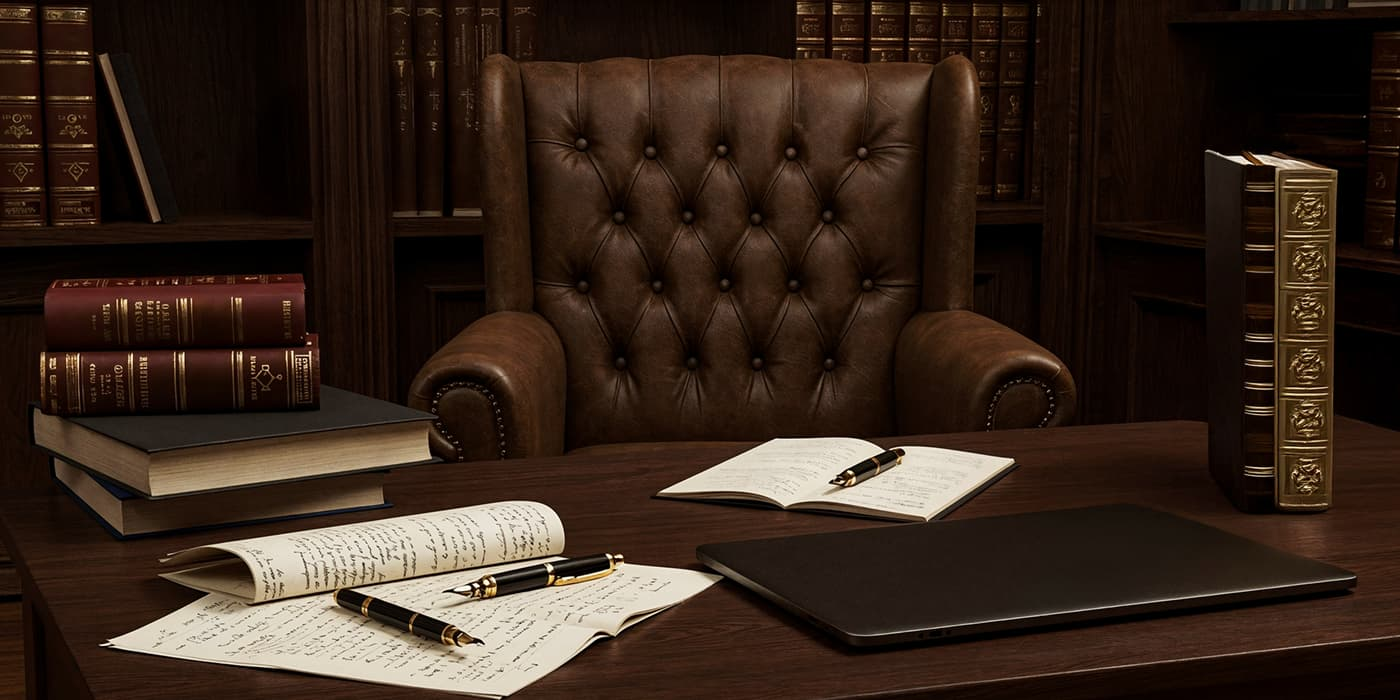
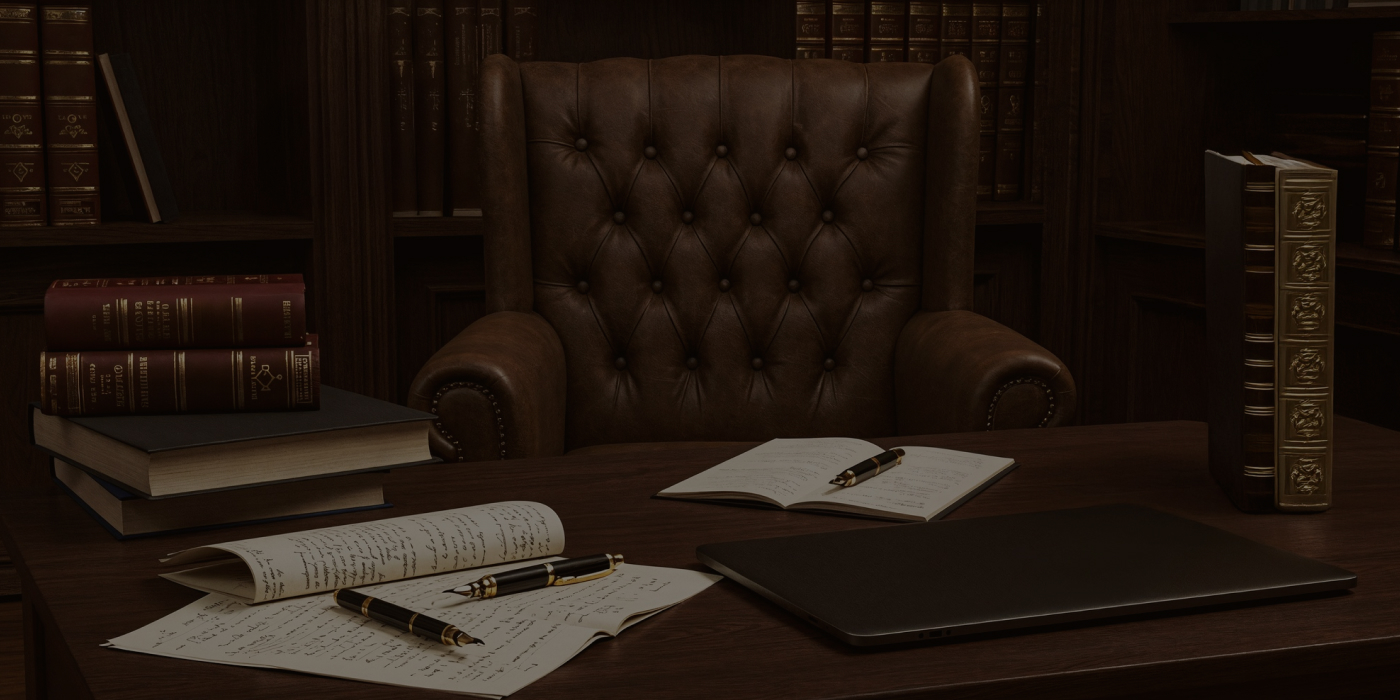
Add new images and update styles for franchise section
- Added new appointment images: abon-01.jpg, abon-02.jpg, abon-03.jpg, abon-04.jpg, abon-05.jpg, abon-06.jpg
- Added franchise background image: franchise-bg.jpg
- Added lemon image: lemon.png
- Updated main background image: main-bg.jpg
- Added referral image: referal-img.jpg
- Updated index.html to change franchise description class and background image
- Modified _elements.sass to set button width to 100%
- Enhanced style.sass for franchise section with new styles for description and button, adjusted padding and margins for responsiveness

diff --git a/css/style.css b/css/style.css
@@ -1,1 +1,1 @@
-html{font-family:sans-serif;-ms-text-size-adjust:100%;-webkit-text-size-adjust:100%}body{margin:0}article,aside,details,figcaption,figure,footer,header,hgroup,main,nav,section,summary{display:block}audio,canvas,progress,video{display:inline-block;vertical-align:baseline}audio:not([controls]){display:none;height:0}[hidden],template{display:none}a{background:rgba(0,0,0,0)}a:active,a:hover{outline:0}abbr[title]{border-bottom:1px dotted}b,strong{font-weight:bold}dfn{font-style:italic}h1{font-size:2em;margin:.67em 0}mark{background:#ff0;color:#000}small{font-size:80%}sub,sup{font-size:75%;line-height:0;position:relative;vertical-align:baseline}sup{top:-0.5em}sub{bottom:-0.25em}img{border:0}svg:not(:root){overflow:hidden}figure{margin:1em 40px}hr{-webkit-box-sizing:content-box;box-sizing:content-box;height:0}pre{overflow:auto}code,kbd,pre,samp{font-family:monospace,monospace;font-size:1em}button,input,optgroup,select,textarea{color:inherit;font:inherit;margin:0}button{overflow:visible}button,select{text-transform:none}button,html input[type=button],input[type=reset],input[type=submit]{-webkit-appearance:button;cursor:pointer}button[disabled],html input[disabled]{cursor:default}button::-moz-focus-inner,input::-moz-focus-inner{border:0;padding:0}input{line-height:normal}input[type=checkbox],input[type=radio]{-webkit-box-sizing:border-box;box-sizing:border-box;padding:0}input[type=number]::-webkit-inner-spin-button,input[type=number]::-webkit-outer-spin-button{height:auto}input[type=search]{-webkit-appearance:textfield;-webkit-box-sizing:content-box;box-sizing:content-box}input[type=search]::-webkit-search-cancel-button,input[type=search]::-webkit-search-decoration{-webkit-appearance:none}legend{border:0;padding:0}textarea{overflow:auto}optgroup{font-weight:bold}table{border-collapse:collapse;border-spacing:0}td,th{padding:0}*{padding:0;margin:0;-webkit-box-sizing:border-box;box-sizing:border-box;border:none;outline:none}:root{--prime: #FF3700;--main: #3D1000;--white: #fff;--black: #000;--dark: #111111;--green: #25A163;--red: #E61717;--bg: #111111;--fz: 1.25rem;--cont: 1320px;--cont-pad: 20px;--padd: 20px}html{scroll-behavior:smooth}body,html{font-family:"Raleway",sans-serif;font-weight:400;font-style:normal;font-optical-sizing:auto;background-color:var(--bg);color:var(--white)}@media screen and (max-width: 1100px){body.tab_active,html.tab_active{overflow:hidden}}body{min-height:100vh;position:relative;z-index:1}body.active{overflow:hidden}.container{max-width:var(--cont);width:calc(100% - var(--cont-pad)*2);margin:0 auto}img{display:block;max-width:100%}h1,h2{font-family:"Philosopher",sans;font-weight:700;margin:0 0 20px}h3,.h3{font-weight:600;font-size:28px;line-height:115%;margin:0 0 20px}h1,.h1{font-weight:700;font-size:60px;line-height:113%;text-transform:uppercase}h2,.h2{font-weight:700;font-size:40px;line-height:100%;color:var(--prime);text-transform:uppercase;margin:0 0 45px}a,button,p,ul,ol{font-family:inherit;font-weight:600;font-size:var(--fz);line-height:130%;letter-spacing:calc(var(--fz)*-0.02);color:var(--white)}.ic{--ic-width: 16px;min-width:var(--ic-width);width:var(--ic-width);height:var(--ic-width);fill:var(--white);display:inline-block}p{font-weight:300;font-size:14px;line-height:20px}p.--lg{font-size:20px;line-height:26px}p:last-child{margin-bottom:0}a,button{text-decoration:none;-webkit-transition:all ease .3s;transition:all ease .3s;background-color:rgba(0,0,0,0)}a:active,button:active{opacity:1;-webkit-transform:scale(0.98);-ms-transform:scale(0.98);transform:scale(0.98)}.btn{font-weight:700;font-size:14px;line-height:16px;vertical-align:middle;text-align:left;color:var(--black);gap:14px;min-width:230px;width:-webkit-fit-content;width:-moz-fit-content;width:fit-content;padding:10px;background-color:var(--white)}.btn .ic{fill:var(--black);-webkit-transition:all .3s ease;transition:all .3s ease}.btn .--arrow{margin-left:auto}.btn:active,.btn:hover{background-color:var(--prime);color:var(--white)}.btn:active .ic,.btn:hover .ic{fill:var(--white)}.btn:active .--arrow,.btn:hover .--arrow{-webkit-transform:scaleX(-1);-ms-transform:scaleX(-1);transform:scaleX(-1)}.btn:disabled{background-color:#e7e7f0;cursor:progress}.w-full{width:100% !important}ul{list-style:none}[class^=fx-],[class*=" fx-"],.btn,body,.fx,.wrapper{display:-webkit-box;display:-ms-flexbox;display:flex}.fx-col,body{-webkit-box-orient:vertical;-webkit-box-direction:normal;-ms-flex-direction:column;flex-direction:column}.fx-ac,.btn{-webkit-box-align:center;-ms-flex-align:center;align-items:center}.fx-as,.wrapper{-webkit-box-align:start;-ms-flex-align:start;align-items:flex-start}.fx-jc{-webkit-box-pack:center;-ms-flex-pack:center;justify-content:center}.fx-je{-webkit-box-pack:end;-ms-flex-pack:end;justify-content:flex-end}.fx-w{-ms-flex-wrap:wrap;flex-wrap:wrap}.fx-jb{-webkit-box-pack:justify;-ms-flex-pack:justify;justify-content:space-between}.fx-ae{-webkit-box-align:end;-ms-flex-align:end;align-items:end}.wrapper{--gap: 63px;--first: 242px;gap:var(--gap)}.wrapper__img{width:100%;-o-object-fit:cover;object-fit:cover}.wrapper>*:first-child{width:var(--first)}.wrapper>*:last-child{width:calc(100% - (var(--first) + var(--gap)))}label{display:block;line-height:100%}input{font-weight:500;--fz: 1.25rem;font-size:var(--fz);line-height:110%;letter-spacing:calc(var(--fz)*-0.02);border:2px solid #80d4ff;height:64px;border-radius:12px;width:100%;padding:0 14px;background-color:#f4f4f5}input:focus{border-color:var(--black)}input::-webkit-input-placeholder{color:#9e9eab}input::-moz-placeholder{color:#9e9eab}input:-ms-input-placeholder{color:#9e9eab}input::-ms-input-placeholder{color:#9e9eab}input::placeholder{color:#9e9eab}@media screen and (max-width: 1300px){.tb-hide{display:none}}@media screen and (min-width: 1300px){.tb-show{display:none}}@media screen and (max-width: 720px){.mob-hide{display:none}}@media screen and (min-width: 720px){.mob-show{display:none}}section{overflow:hidden;padding:50px 0}@media screen and (max-width: 1199px){section{padding:40px 0}}@media screen and (max-width: 992px){section{padding:30px 0}}@media screen and (max-width: 1439px){:root{--fz: 1rem;--cont: 1260px;--padd: 10px}}@media screen and (max-width: 1199px){h1,.h1{font-size:50px}h2,.h2{font-size:30px;margin-bottom:35px}h3,.h3{font-size:22px}.wrapper{--gap: 53px}}@media screen and (max-width: 991px){:root{--padd: 0px}h1,.h1{font-size:40px}h2,.h2{font-size:30px;margin-bottom:25px}h3,.h3{font-size:18px}.wrapper{--first: 200px;--gap: 40px}}@media screen and (max-width: 720px){.wrapper{display:block}.wrapper>*{width:100% !important}.wrapper__img{display:none}p{font-size:12px;line-height:15px}h1,.h1{font-size:25px}h2,.h2{margin-bottom:20px;font-size:24px}h3,.h3{font-size:16px}}.slick-list{position:relative;display:-webkit-box;display:-ms-flexbox;display:flex;margin:0;padding:0}.slick-list:focus{outline:none}.slick-list.dragging{cursor:pointer;cursor:hand}.slick-slider{position:relative;overflow:hidden;display:block;-webkit-box-sizing:border-box;box-sizing:border-box;-webkit-touch-callout:none;-webkit-user-select:none;-moz-user-select:none;-ms-user-select:none;user-select:none;-ms-touch-action:pan-y;touch-action:pan-y;-webkit-tap-highlight-color:rgba(0,0,0,0);left:0;width:100%;position:relative}.slick-slider .slick-track,.slick-slider .slick-list{-webkit-transform:translate3d(0, 0, 0);-ms-transform:translate3d(0, 0, 0);transform:translate3d(0, 0, 0)}.slick-track{position:relative;left:0;top:0;display:-webkit-box;display:-ms-flexbox;display:flex;margin-left:auto;margin-right:auto}.slick-track:before,.slick-track:after{content:"";display:table}.slick-track:after{clear:both}.slick-loading .slick-track{visibility:hidden}.slick-slide{float:left;height:100%;margin:0;min-height:1px;-webkit-transition:all ease .3s;transition:all ease .3s;margin:0 8px}.slick-slide img{display:block}.slick-slide.slick-loading img{display:none}.slick-slide.dragging img{pointer-events:none}.slick-loading .slick-slide{visibility:hidden}.slick-vertical .slick-slide{height:auto}.slick-arrow.slick-hidden{display:none}.slick-arrow{color:rgba(0,0,0,0)}.header{top:0;left:0;width:100%;z-index:99999}.header .btn__menu{display:none;position:relative;z-index:10;opacity:1 !important}.header .nav__link{padding:15px;font-family:Raleway;font-weight:400;font-style:Regular;font-size:14px;leading-trim:CAP_HEIGHT;line-height:100%}.header .nav__link:hover{opacity:1;color:var(--prime)}@media(min-width: 1200px){.header .nav .header-contacts{display:none}}.header-contacts{gap:5px}.header-contacts__link{font-family:"Philosopher",serif;gap:10px;font-weight:700;font-size:16px;line-height:100%}@media(max-width: 1199px){.header .btn__menu{display:block;width:30px;height:40px}.header .btn__menu span{position:relative;display:block;width:100%;margin:0;-webkit-transition:.3s all ease;transition:.3s all ease;height:3px;background-color:var(--white)}.header .btn__menu span::after,.header .btn__menu span::before{content:"";position:absolute;right:0;height:3px;background-color:var(--white);-webkit-transition:inherit;transition:inherit;top:-8px;width:100%}.header .btn__menu span::after{top:8px}.header .btn__menu.active span{background-color:rgba(var(--white), 0)}.header .btn__menu.active span::before,.header .btn__menu.active span::after{top:50%;-webkit-transform:rotate(-45deg);-ms-transform:rotate(-45deg);transform:rotate(-45deg)}.header .btn__menu.active span::after{-webkit-transform:rotate(45deg);-ms-transform:rotate(45deg);transform:rotate(45deg)}.header .nav{position:absolute;z-index:1111;-webkit-transition:all .4s ease;transition:all .4s ease;width:calc(100% - 62px);max-width:320px;top:0;left:0;text-align:center;background-color:rgba(17,17,17,.95);opacity:0;overflow:hidden;height:100svh;visibility:hidden;-webkit-transform:translateX(-100%);-ms-transform:translateX(-100%);transform:translateX(-100%);-webkit-box-orient:vertical;-webkit-box-direction:normal;-ms-flex-direction:column;flex-direction:column;padding:50px 20px}.header .nav>*{opacity:0;width:100%;-webkit-transition:all ease .3s;transition:all ease .3s;-webkit-transform:translateY(100%);-ms-transform:translateY(100%);transform:translateY(100%)}.header .nav__link{display:block;font-size:16px;padding:10px 0;text-align:left;line-height:100%}.header .nav .header-contacts{margin:auto 0 0}.header .nav.active{opacity:1;visibility:visible;-webkit-transform:translateX(0);-ms-transform:translateX(0);transform:translateX(0)}.header .nav.active>*{opacity:1;-webkit-transform:translateY(0px);-ms-transform:translateY(0px);transform:translateY(0px)}.header .nav.active>*:nth-child(1){-webkit-transition-delay:.1s;transition-delay:.1s}.header .nav.active>*:nth-child(2){-webkit-transition-delay:.2s;transition-delay:.2s}.header .nav.active>*:nth-child(3){-webkit-transition-delay:.3s;transition-delay:.3s}.header .nav.active>*:nth-child(4){-webkit-transition-delay:.4s;transition-delay:.4s}.header .nav.active>*:nth-child(5){-webkit-transition-delay:.5s;transition-delay:.5s}.header .nav.active>*:nth-child(6){-webkit-transition-delay:.6s;transition-delay:.6s}.header-contacts{margin:0 34px 0 auto}}@media(max-width: 720px){.header{padding:0 !important}.header-contacts__link{font-size:14px}}@media(max-width: 350px){.header-contacts{margin-right:22px}.header-contacts__link{font-size:12px}.header-contacts__link .ic{--ic-width: 14px}}.logo{display:block;position:relative;z-index:100;max-width:206px}.logo img{width:100%}@media(max-width: 1199px){.logo{max-width:166px}}@media(max-width: 720px){.logo{max-width:84px}}.hero{position:relative;z-index:1;padding:var(--padd);margin:0 0 50px}.hero .container{gap:90px 20px;padding-top:22px;padding-bottom:22px;min-height:calc(100svh - var(--padd)*2)}.hero .header{margin-bottom:auto}.hero-features{gap:78px;max-width:59%;margin-bottom:5vw}.hero-feature{white-space:nowrap}.hero-feature__heading{display:block;font-family:"Philosopher",serif;font-weight:700;font-size:60px;line-height:100%;text-transform:uppercase}.hero-feature__text{font-weight:600;font-size:24px;line-height:100%}.hero-descr{max-width:41%;text-align:right;margin-bottom:5vw}.hero-descr p{margin-bottom:20px}.hero-descr .btn{margin-left:auto}.hero h1{max-width:1149px;margin:auto 0 0}.hero__bg,.hero::before{content:"";display:block;position:absolute;top:var(--padd);z-index:-111;left:var(--padd);width:calc(100% - var(--padd)*2);height:calc(100% - var(--padd)*2)}.hero::before{background-color:#0d0804}.hero__bg{z-index:-1;-o-object-fit:cover;object-fit:cover;opacity:.5}@media(max-width: 1439px){.hero-features,.hero-descr{margin-bottom:0}}@media(max-width: 1199px){.hero .container{-webkit-box-align:end;-ms-flex-align:end;align-items:flex-end}.hero-features{margin-bottom:10vw;gap:40px;max-width:40%}.hero-feature__heading{font-size:50px}.hero-feature__text{font-size:22px}.hero-descr{margin-bottom:10vw;max-width:50%}.hero h1{max-width:980px}}@media(max-width: 991px){.hero .container{gap:56px 0;-webkit-box-orient:vertical;-webkit-box-direction:normal;-ms-flex-direction:column;flex-direction:column}.hero .container>*{width:100%;max-width:100%;text-align:left}.hero .header{-webkit-box-ordinal-group:2;-ms-flex-order:1;order:1}.hero-features{-webkit-box-ordinal-group:3;-ms-flex-order:2;order:2;margin-bottom:0;gap:20px 40px}.hero-feature__heading{font-size:40px}.hero-feature__text{font-size:18px}.hero h1{-webkit-box-ordinal-group:4;-ms-flex-order:3;order:3;margin:0}.hero-descr{margin:auto;-webkit-box-ordinal-group:5;-ms-flex-order:4;order:4;margin-bottom:0}.hero-descr .btn{margin-left:0}}@media(max-width: 720px){.hero{margin-bottom:70px}.hero .container{width:calc(100% - 18px);min-height:590px}.hero .container>*{padding:0 11px}.hero-feature__heading{font-size:28px}.hero-feature__text{font-size:12px}.hero-descr p{font-size:12px;line-height:16px;margin-bottom:30px}.hero-descr .btn{width:100%}}.about h3{max-width:590px;font-weight:400}.about .wrapper>*:last-child{max-width:670px}.reviews-title{gap:2px 20px;margin-bottom:20px}.reviews-title>*{margin:0}.reviews h2{color:var(--white)}.reviews h3{color:var(--prime)}.reviews-slider{width:calc((100vw - var(--cont))/2 + 100%)}.reviews-slider:not(.slick-initialized){gap:10px}.reviews-slider:not(.slick-initialized)>*:nth-child(n+4){display:none}.reviews-slide{width:316px;border:1px solid #fff;padding:30px;margin:0 5px}.reviews-slide>*{width:100%}.reviews-slide:nth-child(even){border:none;background-color:var(--main)}.reviews__text{margin:0 0 10px}.reviews__name{font-weight:bold}@media screen and (max-width: 1300px){.reviews-slider{width:calc(100% + var(--cont-pad))}}@media screen and (max-width: 991px){.reviews-slide{padding:21px 19px}}@media screen and (max-width: 720px){.reviews-slide{margin:0 3.5px;width:60vw;max-width:300px}.reviews-slider{position:relative;z-index:1;left:calc(0px - var(--cont-pad));width:calc(100% + var(--cont-pad)*2)}.reviews-slider .slick-list{padding:0 calc(var(--cont-pad) - 3.5px)}}.faq__text{display:none;padding-bottom:20px}.faq-item{-webkit-transition:all ease .3s;transition:all ease .3s;margin:0 auto;padding:0;border-bottom:1px solid #bebebe}.faq-item .ic{position:absolute;top:50%;-webkit-transform:translateY(-50%);-ms-transform:translateY(-50%);transform:translateY(-50%);left:0;--ic-width: 26px}.faq-item:last-child{margin-bottom:0}.faq__text{padding-left:60px}.faq__heading{padding:20px 0 20px 60px;position:relative;z-index:1;margin:0;width:100%;text-align:left;text-wrap:balance;cursor:pointer}.faq__heading.active{color:var(--prime);opacity:1}@media screen and (max-width: 1199px){.faq__heading{padding:18px 0 18px 40px}.faq__heading .ic{--ic-width: 20px}.faq__text{padding-left:40px}}@media screen and (max-width: 720px){.faq__heading{padding:11.5px 0 11.5px 27px}.faq__heading .ic{--ic-width: 15px}.faq__text{padding-left:27px}}.franchise{position:relative;z-index:1}.franchise__bg,.franchise::before{content:"";display:block;position:absolute;top:var(--padd);z-index:-111;left:var(--padd);width:calc(100% - var(--padd)*2);height:calc(100% - var(--padd)*2)}.franchise__bg{z-index:-1;-o-object-fit:cover;object-fit:cover;opacity:.5}/*# sourceMappingURL=style.css.map */
+html{font-family:sans-serif;-ms-text-size-adjust:100%;-webkit-text-size-adjust:100%}body{margin:0}article,aside,details,figcaption,figure,footer,header,hgroup,main,nav,section,summary{display:block}audio,canvas,progress,video{display:inline-block;vertical-align:baseline}audio:not([controls]){display:none;height:0}[hidden],template{display:none}a{background:rgba(0,0,0,0)}a:active,a:hover{outline:0}abbr[title]{border-bottom:1px dotted}b,strong{font-weight:bold}dfn{font-style:italic}h1{font-size:2em;margin:.67em 0}mark{background:#ff0;color:#000}small{font-size:80%}sub,sup{font-size:75%;line-height:0;position:relative;vertical-align:baseline}sup{top:-0.5em}sub{bottom:-0.25em}img{border:0}svg:not(:root){overflow:hidden}figure{margin:1em 40px}hr{-webkit-box-sizing:content-box;box-sizing:content-box;height:0}pre{overflow:auto}code,kbd,pre,samp{font-family:monospace,monospace;font-size:1em}button,input,optgroup,select,textarea{color:inherit;font:inherit;margin:0}button{overflow:visible}button,select{text-transform:none}button,html input[type=button],input[type=reset],input[type=submit]{-webkit-appearance:button;cursor:pointer}button[disabled],html input[disabled]{cursor:default}button::-moz-focus-inner,input::-moz-focus-inner{border:0;padding:0}input{line-height:normal}input[type=checkbox],input[type=radio]{-webkit-box-sizing:border-box;box-sizing:border-box;padding:0}input[type=number]::-webkit-inner-spin-button,input[type=number]::-webkit-outer-spin-button{height:auto}input[type=search]{-webkit-appearance:textfield;-webkit-box-sizing:content-box;box-sizing:content-box}input[type=search]::-webkit-search-cancel-button,input[type=search]::-webkit-search-decoration{-webkit-appearance:none}legend{border:0;padding:0}textarea{overflow:auto}optgroup{font-weight:bold}table{border-collapse:collapse;border-spacing:0}td,th{padding:0}*{padding:0;margin:0;-webkit-box-sizing:border-box;box-sizing:border-box;border:none;outline:none}:root{--prime: #FF3700;--main: #3D1000;--white: #fff;--black: #000;--dark: #111111;--green: #25A163;--red: #E61717;--bg: #111111;--fz: 1.25rem;--cont: 1320px;--cont-pad: 20px;--padd: 20px}html{scroll-behavior:smooth}body,html{font-family:"Raleway",sans-serif;font-weight:400;font-style:normal;font-optical-sizing:auto;background-color:var(--bg);color:var(--white)}@media screen and (max-width: 1100px){body.tab_active,html.tab_active{overflow:hidden}}body{min-height:100vh;position:relative;z-index:1}body.active{overflow:hidden}.container{max-width:var(--cont);width:calc(100% - var(--cont-pad)*2);margin:0 auto}img{display:block;max-width:100%}h1,h2{font-family:"Philosopher",sans;font-weight:700;margin:0 0 20px}h3,.h3{font-weight:600;font-size:28px;line-height:115%;margin:0 0 20px}h1,.h1{font-weight:700;font-size:60px;line-height:113%;text-transform:uppercase}h2,.h2{font-weight:700;font-size:40px;line-height:100%;color:var(--prime);text-transform:uppercase;margin:0 0 45px}a,button,p,ul,ol{font-family:inherit;font-weight:600;font-size:var(--fz);line-height:130%;letter-spacing:calc(var(--fz)*-0.02);color:var(--white)}.ic{--ic-width: 16px;min-width:var(--ic-width);width:var(--ic-width);height:var(--ic-width);fill:var(--white);display:inline-block}p{font-weight:300;font-size:14px;line-height:20px}p.--lg{font-size:20px;line-height:26px}p:last-child{margin-bottom:0}a,button{text-decoration:none;-webkit-transition:all ease .3s;transition:all ease .3s;background-color:rgba(0,0,0,0)}a:active,button:active{opacity:1;-webkit-transform:scale(0.98);-ms-transform:scale(0.98);transform:scale(0.98)}.btn{font-weight:700;font-size:14px;line-height:16px;vertical-align:middle;text-align:left;color:var(--black);gap:14px;min-width:230px;width:-webkit-fit-content;width:-moz-fit-content;width:fit-content;padding:10px;background-color:var(--white)}.btn .ic{fill:var(--black);-webkit-transition:all .3s ease;transition:all .3s ease}.btn .--arrow{margin-left:auto}.btn:active,.btn:hover{background-color:var(--prime);color:var(--white)}.btn:active .ic,.btn:hover .ic{fill:var(--white)}.btn:active .--arrow,.btn:hover .--arrow{-webkit-transform:scaleX(-1);-ms-transform:scaleX(-1);transform:scaleX(-1)}.btn:disabled{background-color:#e7e7f0;cursor:progress}.w-full{width:100% !important}ul{list-style:none}[class^=fx-],[class*=" fx-"],.btn,body,.fx,.wrapper{display:-webkit-box;display:-ms-flexbox;display:flex}.fx-col,body{-webkit-box-orient:vertical;-webkit-box-direction:normal;-ms-flex-direction:column;flex-direction:column}.fx-ac,.btn{-webkit-box-align:center;-ms-flex-align:center;align-items:center}.fx-as,.wrapper{-webkit-box-align:start;-ms-flex-align:start;align-items:flex-start}.fx-jc{-webkit-box-pack:center;-ms-flex-pack:center;justify-content:center}.fx-je{-webkit-box-pack:end;-ms-flex-pack:end;justify-content:flex-end}.fx-w{-ms-flex-wrap:wrap;flex-wrap:wrap}.fx-jb{-webkit-box-pack:justify;-ms-flex-pack:justify;justify-content:space-between}.fx-ae{-webkit-box-align:end;-ms-flex-align:end;align-items:end}.wrapper{--gap: 63px;--first: 242px;gap:var(--gap)}.wrapper__img{width:100%;-o-object-fit:cover;object-fit:cover}.wrapper>*:first-child{width:var(--first)}.wrapper>*:last-child{width:calc(100% - (var(--first) + var(--gap)))}label{display:block;line-height:100%}input{font-weight:500;--fz: 1.25rem;font-size:var(--fz);line-height:110%;letter-spacing:calc(var(--fz)*-0.02);border:2px solid #80d4ff;height:64px;border-radius:12px;width:100%;padding:0 14px;background-color:#f4f4f5}input:focus{border-color:var(--black)}input::-webkit-input-placeholder{color:#9e9eab}input::-moz-placeholder{color:#9e9eab}input:-ms-input-placeholder{color:#9e9eab}input::-ms-input-placeholder{color:#9e9eab}input::placeholder{color:#9e9eab}@media screen and (max-width: 1300px){.tb-hide{display:none}}@media screen and (min-width: 1300px){.tb-show{display:none}}@media screen and (max-width: 720px){.mob-hide{display:none}}@media screen and (min-width: 720px){.mob-show{display:none}}section{overflow:hidden;padding:50px 0}@media screen and (max-width: 1199px){section{padding:40px 0}}@media screen and (max-width: 992px){section{padding:30px 0}}@media screen and (max-width: 1439px){:root{--fz: 1rem;--cont: 1260px;--padd: 10px}}@media screen and (max-width: 1199px){h1,.h1{font-size:50px}h2,.h2{font-size:30px;margin-bottom:35px}h3,.h3{font-size:22px}.wrapper{--gap: 53px}}@media screen and (max-width: 991px){:root{--padd: 0px}h1,.h1{font-size:40px}h2,.h2{font-size:30px;margin-bottom:25px}h3,.h3{font-size:18px}.wrapper{--first: 200px;--gap: 40px}}@media screen and (max-width: 720px){.wrapper{display:block}.wrapper>*{width:100% !important}.wrapper__img{display:none}p{font-size:12px;line-height:15px}h1,.h1{font-size:25px}h2,.h2{margin-bottom:20px;font-size:24px}h3,.h3{font-size:16px}.btn{width:100%}}.slick-list{position:relative;display:-webkit-box;display:-ms-flexbox;display:flex;margin:0;padding:0}.slick-list:focus{outline:none}.slick-list.dragging{cursor:pointer;cursor:hand}.slick-slider{position:relative;overflow:hidden;display:block;-webkit-box-sizing:border-box;box-sizing:border-box;-webkit-touch-callout:none;-webkit-user-select:none;-moz-user-select:none;-ms-user-select:none;user-select:none;-ms-touch-action:pan-y;touch-action:pan-y;-webkit-tap-highlight-color:rgba(0,0,0,0);left:0;width:100%;position:relative}.slick-slider .slick-track,.slick-slider .slick-list{-webkit-transform:translate3d(0, 0, 0);-ms-transform:translate3d(0, 0, 0);transform:translate3d(0, 0, 0)}.slick-track{position:relative;left:0;top:0;display:-webkit-box;display:-ms-flexbox;display:flex;margin-left:auto;margin-right:auto}.slick-track:before,.slick-track:after{content:"";display:table}.slick-track:after{clear:both}.slick-loading .slick-track{visibility:hidden}.slick-slide{float:left;height:100%;margin:0;min-height:1px;-webkit-transition:all ease .3s;transition:all ease .3s;margin:0 8px}.slick-slide img{display:block}.slick-slide.slick-loading img{display:none}.slick-slide.dragging img{pointer-events:none}.slick-loading .slick-slide{visibility:hidden}.slick-vertical .slick-slide{height:auto}.slick-arrow.slick-hidden{display:none}.slick-arrow{color:rgba(0,0,0,0)}.header{top:0;left:0;width:100%;z-index:99999}.header .btn__menu{display:none;position:relative;z-index:10;opacity:1 !important}.header .nav__link{padding:15px;font-family:Raleway;font-weight:400;font-style:Regular;font-size:14px;leading-trim:CAP_HEIGHT;line-height:100%}.header .nav__link:hover{opacity:1;color:var(--prime)}@media(min-width: 1200px){.header .nav .header-contacts{display:none}}.header-contacts{gap:5px}.header-contacts__link{font-family:"Philosopher",serif;gap:10px;font-weight:700;font-size:16px;line-height:100%}@media(max-width: 1199px){.header .btn__menu{display:block;width:30px;height:40px}.header .btn__menu span{position:relative;display:block;width:100%;margin:0;-webkit-transition:.3s all ease;transition:.3s all ease;height:3px;background-color:var(--white)}.header .btn__menu span::after,.header .btn__menu span::before{content:"";position:absolute;right:0;height:3px;background-color:var(--white);-webkit-transition:inherit;transition:inherit;top:-8px;width:100%}.header .btn__menu span::after{top:8px}.header .btn__menu.active span{background-color:rgba(var(--white), 0)}.header .btn__menu.active span::before,.header .btn__menu.active span::after{top:50%;-webkit-transform:rotate(-45deg);-ms-transform:rotate(-45deg);transform:rotate(-45deg)}.header .btn__menu.active span::after{-webkit-transform:rotate(45deg);-ms-transform:rotate(45deg);transform:rotate(45deg)}.header .nav{position:absolute;z-index:1111;-webkit-transition:all .4s ease;transition:all .4s ease;width:calc(100% - 62px);max-width:320px;top:0;left:0;text-align:center;background-color:rgba(17,17,17,.95);opacity:0;overflow:hidden;height:100svh;visibility:hidden;-webkit-transform:translateX(-100%);-ms-transform:translateX(-100%);transform:translateX(-100%);-webkit-box-orient:vertical;-webkit-box-direction:normal;-ms-flex-direction:column;flex-direction:column;padding:50px 20px}.header .nav>*{opacity:0;width:100%;-webkit-transition:all ease .3s;transition:all ease .3s;-webkit-transform:translateY(100%);-ms-transform:translateY(100%);transform:translateY(100%)}.header .nav__link{display:block;font-size:16px;padding:10px 0;text-align:left;line-height:100%}.header .nav .header-contacts{margin:auto 0 0}.header .nav.active{opacity:1;visibility:visible;-webkit-transform:translateX(0);-ms-transform:translateX(0);transform:translateX(0)}.header .nav.active>*{opacity:1;-webkit-transform:translateY(0px);-ms-transform:translateY(0px);transform:translateY(0px)}.header .nav.active>*:nth-child(1){-webkit-transition-delay:.1s;transition-delay:.1s}.header .nav.active>*:nth-child(2){-webkit-transition-delay:.2s;transition-delay:.2s}.header .nav.active>*:nth-child(3){-webkit-transition-delay:.3s;transition-delay:.3s}.header .nav.active>*:nth-child(4){-webkit-transition-delay:.4s;transition-delay:.4s}.header .nav.active>*:nth-child(5){-webkit-transition-delay:.5s;transition-delay:.5s}.header .nav.active>*:nth-child(6){-webkit-transition-delay:.6s;transition-delay:.6s}.header-contacts{margin:0 34px 0 auto}}@media(max-width: 720px){.header{padding:0 !important}.header-contacts__link{font-size:14px}}@media(max-width: 350px){.header-contacts{margin-right:22px}.header-contacts__link{font-size:12px}.header-contacts__link .ic{--ic-width: 14px}}.logo{display:block;position:relative;z-index:100;max-width:206px}.logo img{width:100%}@media(max-width: 1199px){.logo{max-width:166px}}@media(max-width: 720px){.logo{max-width:84px}}.hero{position:relative;z-index:1;padding:var(--padd);margin:0 0 50px}.hero .container{gap:90px 20px;padding-top:22px;padding-bottom:22px;min-height:calc(100svh - var(--padd)*2)}.hero .header{margin-bottom:auto}.hero-features{gap:78px;max-width:59%;margin-bottom:5vw}.hero-feature{white-space:nowrap}.hero-feature__heading{display:block;font-family:"Philosopher",serif;font-weight:700;font-size:60px;line-height:100%;text-transform:uppercase}.hero-feature__text{font-weight:600;font-size:24px;line-height:100%}.hero-descr{max-width:41%;text-align:right;margin-bottom:5vw}.hero-descr p{margin-bottom:20px}.hero-descr .btn{margin-left:auto}.hero h1{max-width:1149px;margin:auto 0 0}.hero__bg{display:block;position:absolute;top:var(--padd);z-index:-111;left:var(--padd);width:calc(100% - var(--padd)*2);height:calc(100% - var(--padd)*2);z-index:-1;-o-object-fit:cover;object-fit:cover}@media(max-width: 1439px){.hero-features,.hero-descr{margin-bottom:0}}@media(max-width: 1199px){.hero .container{-webkit-box-align:end;-ms-flex-align:end;align-items:flex-end}.hero-features{margin-bottom:10vw;gap:40px;max-width:40%}.hero-feature__heading{font-size:50px}.hero-feature__text{font-size:22px}.hero-descr{margin-bottom:10vw;max-width:50%}.hero h1{max-width:980px}}@media(max-width: 991px){.hero .container{gap:56px 0;-webkit-box-orient:vertical;-webkit-box-direction:normal;-ms-flex-direction:column;flex-direction:column}.hero .container>*{width:100%;max-width:100%;text-align:left}.hero .header{-webkit-box-ordinal-group:2;-ms-flex-order:1;order:1}.hero-features{-webkit-box-ordinal-group:3;-ms-flex-order:2;order:2;margin-bottom:0;gap:20px 40px}.hero-feature__heading{font-size:40px}.hero-feature__text{font-size:18px}.hero h1{-webkit-box-ordinal-group:4;-ms-flex-order:3;order:3;margin:0}.hero-descr{margin:auto;-webkit-box-ordinal-group:5;-ms-flex-order:4;order:4;margin-bottom:0}.hero-descr .btn{margin-left:0}}@media(max-width: 720px){.hero{margin-bottom:70px}.hero .container{width:calc(100% - 18px);min-height:590px}.hero .container>*{padding:0 11px}.hero-feature__heading{font-size:28px}.hero-feature__text{font-size:12px}.hero-descr p{font-size:12px;line-height:16px;margin-bottom:30px}.hero-descr .btn{width:100%}}.about h3{max-width:590px;font-weight:400}.about .wrapper>*:last-child{max-width:670px}.reviews-title{gap:2px 20px;margin-bottom:20px}.reviews-title>*{margin:0}.reviews h2{color:var(--white)}.reviews h3{color:var(--prime)}.reviews-slider{width:calc((100vw - var(--cont))/2 + 100%)}.reviews-slider:not(.slick-initialized){gap:10px}.reviews-slider:not(.slick-initialized)>*:nth-child(n+4){display:none}.reviews-slide{width:316px;border:1px solid #fff;padding:30px;margin:0 5px}.reviews-slide>*{width:100%}.reviews-slide:nth-child(even){border:none;background-color:var(--main)}.reviews__text{margin:0 0 10px}.reviews__name{font-weight:bold}@media screen and (max-width: 1300px){.reviews-slider{width:calc(100% + var(--cont-pad))}}@media screen and (max-width: 991px){.reviews-slide{padding:21px 19px}}@media screen and (max-width: 720px){.reviews-slide{margin:0 3.5px;width:60vw;max-width:300px}.reviews-slider{position:relative;z-index:1;left:calc(0px - var(--cont-pad));width:calc(100% + var(--cont-pad)*2)}.reviews-slider .slick-list{padding:0 calc(var(--cont-pad) - 3.5px)}}.faq__text{display:none;padding-bottom:20px}.faq-item{-webkit-transition:all ease .3s;transition:all ease .3s;margin:0 auto;padding:0;border-bottom:1px solid #bebebe}.faq-item .ic{position:absolute;top:50%;-webkit-transform:translateY(-50%);-ms-transform:translateY(-50%);transform:translateY(-50%);left:0;--ic-width: 26px}.faq-item:last-child{margin-bottom:0}.faq__text{padding-left:60px}.faq__heading{padding:20px 0 20px 60px;position:relative;z-index:1;margin:0;width:100%;text-align:left;text-wrap:balance;cursor:pointer}.faq__heading.active{color:var(--prime);opacity:1}@media screen and (max-width: 1199px){.faq__heading{padding:18px 0 18px 40px}.faq__heading .ic{--ic-width: 20px}.faq__text{padding-left:40px}}@media screen and (max-width: 720px){.faq__heading{padding:11.5px 0 11.5px 27px}.faq__heading .ic{--ic-width: 15px}.faq__text{padding-left:27px}}.franchise{position:relative;z-index:1;text-align:center;padding:70px 0 74px;margin:50px 0}.franchise h2{margin-bottom:20px}.franchise__descr{max-width:710px;margin:0 auto 40px}.franchise__bg{display:block;position:absolute;top:var(--padd);z-index:-111;left:var(--padd);width:calc(100% - var(--padd)*2);height:100%;z-index:-1;-o-object-fit:cover;object-fit:cover;pointer-events:none}.franchise .btn{margin:0 auto}@media screen and (max-width: 1199px){.franchise{padding:60px 0 64px;margin:40px 0}.franchise__descr{max-width:610px}}@media screen and (max-width: 991px){.franchise__descr{max-width:510px}}@media screen and (max-width: 720px){.franchise{padding:32px 0 60px;margin:30px 0}.franchise h2{max-width:280px;margin:0 auto 20px}.franchise__descr{max-width:270px;margin-bottom:40px}}/*# sourceMappingURL=style.css.map */

diff --git a/sass/style.sass b/sass/style.sass
@@ -51,9 +51,7 @@
         max-width: 1149px
         margin: auto 0 0
 
-    &__bg,
-    &::before
-        content: ''
+    &__bg
         display: block
         position: absolute
         top: var(--padd)
@@ -61,14 +59,8 @@
         left: var(--padd)
         width: calc( 100% - var(--padd) * 2 )
         height: calc( 100% - var(--padd) * 2 )
-
-    &::before
-        background-color: #0D0804
-
-    &__bg
         z-index: -1
         object-fit: cover
-        opacity: .5
 
     @media (max-width: 1439px)
         &-features,
@@ -291,21 +283,53 @@
 .franchise
     position: relative
     z-index: 1
-    padding: 
-    &__bg,
-    &::before
-        content: ''
+    text-align: center
+    padding: 70px 0 74px
+    margin: 50px 0
+    h2
+        margin-bottom: 20px
+
+    &__descr
+        max-width: 710px
+        margin: 0 auto 40px
+
+    &__bg
         display: block
         position: absolute
         top: var(--padd)
         z-index: -111
         left: var(--padd)
         width: calc( 100% - var(--padd) * 2 )
-        height: calc( 100% - var(--padd) * 2 )
-
-    &__bg
+        height: 100%
         z-index: -1
         object-fit: cover
-        opacity: .5
+        pointer-events: none
+
+    .btn
+        margin: 0 auto
+
+    @media screen and ( max-width: 1199px )
+        padding: 60px 0 64px
+        margin: 40px 0
+
+        &__descr 
+            max-width: 610px
+
+    @media screen and ( max-width: 991px )
+        &__descr 
+            max-width: 510px
+    
+    @media screen and ( max-width: 720px )
+        padding: 32px 0 60px
+        margin: 30px 0
+        h2 
+            max-width: 280px
+            margin: 0 auto 20px
+        &__descr 
+            max-width: 270px
+            margin-bottom: 40px
+
+        
+        
 
 @import 'footer'

diff --git a/index.html b/index.html
@@ -298,7 +298,7 @@
         <section class="franchise">
             <div class="container">
                 <h2>франшиза юридической компании</h2>
-                <h3>
+                <h3 class="franchise__descr">
                     Зарабатывайте от 100 000 в месяц на услугах автоюриста даже без юридического образования
                 </h3>
                 <a href="#" class="btn" target="_blank">
@@ -308,7 +308,7 @@
                     </svg>
                 </a>
             </div>
-            <img src="img/main-bg.jpg" alt="bg" class="franchise__bg">
+            <img src="img/franchise-bg.jpg" alt="bg" class="franchise__bg">
 
         </section>
         

diff --git a/sass/_elements.sass b/sass/_elements.sass
@@ -314,3 +314,6 @@ section
 
     h3,.h3
         font-size: 16px
+
+    .btn 
+        width: 100%
